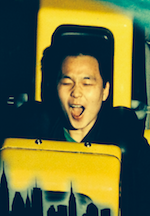
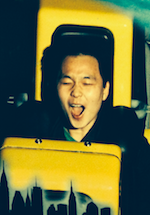
My face now displays correctly.

diff --git a/src/wcNaver/NaverCrawlerGUI.java b/src/wcNaver/NaverCrawlerGUI.java
@@ -168,7 +168,7 @@ public class NaverCrawlerGUI implements NaverConstants {
         dummyLabel.setPreferredSize(new Dimension(90, 20));
 
         // Add a button that user can click to download stuff.
-        getListBtn = new JButton("웹툰 목록 가져오기~");
+        getListBtn = new JButton("웹툰 목록 가져오기");
         getListBtn.setPreferredSize(new Dimension(150, 20));
 
         saveDirChsr = new JFileChooser();
@@ -230,7 +230,9 @@ public class NaverCrawlerGUI implements NaverConstants {
         myProfilePanel.setPreferredSize(myProPanelDim);
         myProfilePanel.setBorder(BorderFactory.createLineBorder(Color.BLACK, 2));
 
-        ImageIcon myFaceImg = new ImageIcon("images/roller_coaster.png");
+        ImageIcon myFaceImg = new ImageIcon(
+                getClass().getResource("/images/roller_coaster.png"));
+
         JLabel myFace = new JLabel("", myFaceImg, SwingConstants.LEFT);
 
         String msg = "\n개발자: 김슬기\n\n" +
@@ -246,6 +248,7 @@ public class NaverCrawlerGUI implements NaverConstants {
 
         myProfilePanel.add(myFace);
         myProfilePanel.add(myInfo);
+
     }
 
     private void setupWtListScrollPane() {
